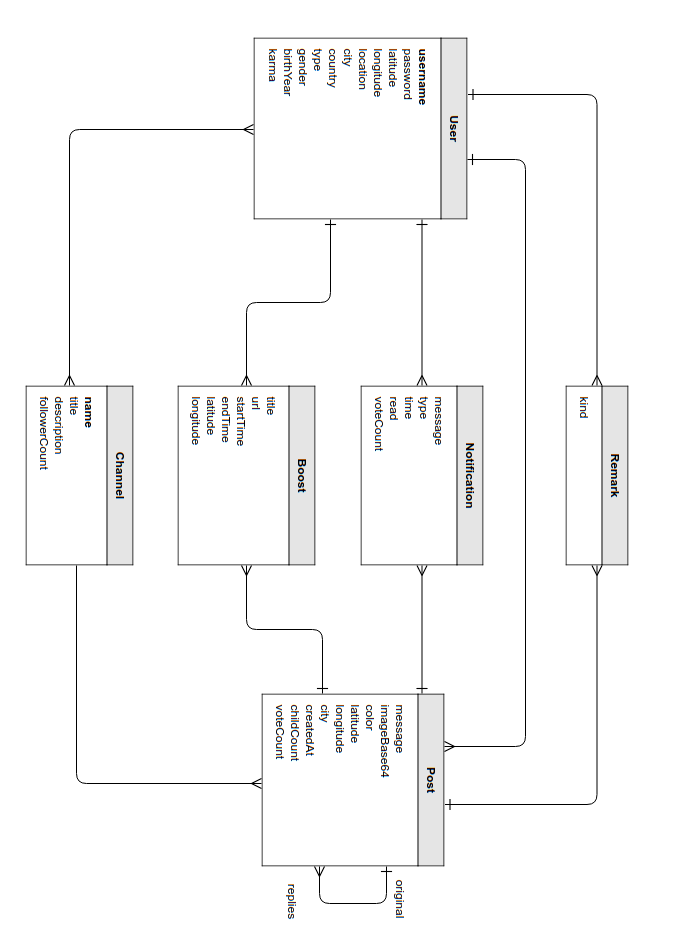
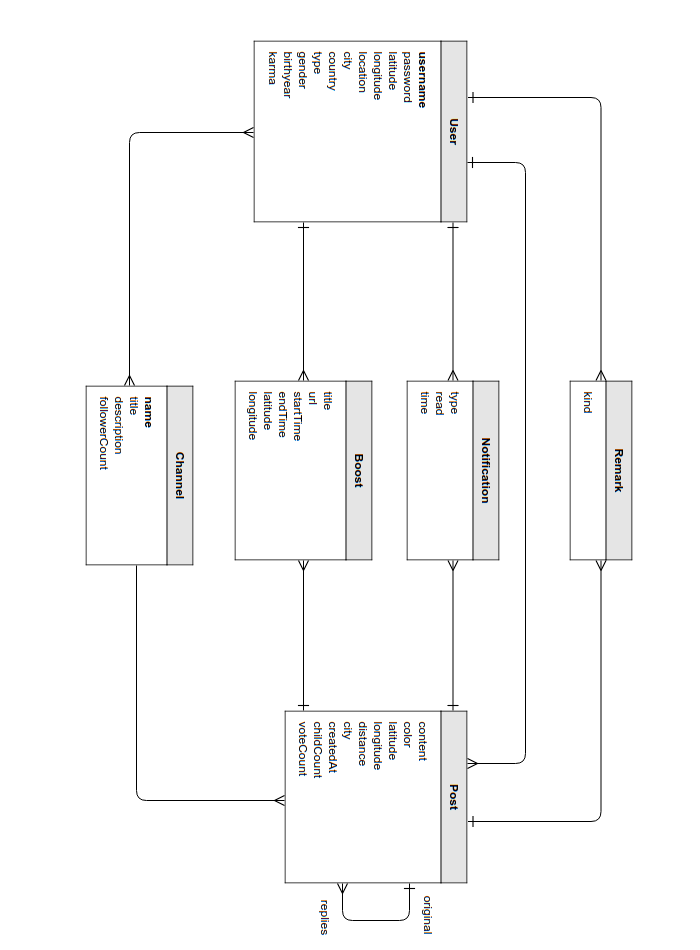
Update conceptual design

diff --git a/readme.md b/readme.md
@@ -1,3 +1,65 @@
 # Our Jodel: Conceptual Design
 ## Data Model
+
+### Entity-Relationship Diagram
+
 ![alt text](./Data_Model.png)
+
+### Data Dictionary
+
+#### Post
+
+| Attribute  | Description                                                  |
+| ---------- | ------------------------------------------------------------ |
+| content    | Probably, we are going to use MIME format. Text can have length up to 240 characters. |
+| color      | The color has no actual meaning. The color is selected randomly when the user press the &ldquo;+&rdquo; button.<br />Posts can have six colors:<br />&bull; orange (#FF9908)<br />&bull; yellow (#FFBA00)<br />&bull; red (#DD5F5F)<br />&bull; blue (#06A3CB)<br />&bull; blueish-grey (#8ABDB0)<br />&bull; green (#9EC41C) |
+| latitude   | Signed latitude of the location of posting, in degrees, with precision of 5 decimal places. |
+| longitude  | Signed longitude of the location of posting, in degrees, with precision of 5 decimal places. |
+| distance   | One of the following:<br />&bull; here (less than 1 km)<br />&bull; very-close (between 1 and 2 km)<br />&bull; close (between 2 and 10 km)<br />&bull; far (more than 10 km)<br />&bull; hometown (posted from a different location using hometown feature) |
+| city       | Name of the city. e.g.: São Paulo                            |
+| createdAt  | Date-time of the post                                        |
+| childCount | For original post, it is the number of replies.<br />For replies, it is 0. |
+| voteCount  | number of upvotes minus number of downvotes. <br />When a post has voteCount of -5 it disappears. |
+
+#### User
+
+| Attribute | Description                                                  |
+| --------- | ------------------------------------------------------------ |
+| username  | Login e-mail address.                                        |
+| password  | Login password.                                              |
+| latitude  | Signed latitude of user's location, in degrees, with precision of 5 decimal places. |
+| longitude | Signed longitude of the user's location, in degrees, with precision of 5 decimal places. |
+| location  | Name of the user's location, normally equals to the name of the city. |
+| city      | Name of the city of the the user's location, e.g.: São Paulo |
+| country   | Two letter country code, e.g. BR                             |
+| type      | User's type. Users can have one of 6 types:<br />&bull; Aprendiz<br />&bull; Funcionário<br />&bull; Colegial<br />&bull; Vestibulando<br />&bull; Universitário<br />&bull; Outros |
+| gender    | &ldquo;m&rdquo; or &ldquo;f&rdquo;                           |
+| birthyear | User's birthyear with 4 digits.                              |
+| karma     | User's score: <br /> &bull; The user earns (looses) 2 karma for upvoting (downvoting) on a post<br /> &bull; The user earns (looses) 10 karma when he receives an upvote (downvote)<br /> &bull; The user earns 1 karma for thanking another user who replies to his post<br /> &bull; The replier earns 5 karma for receiving thanks. |
+
+#### Remark
+
+| Attribute | Description                                                  |
+| --------- | ------------------------------------------------------------ |
+| kind      | One of the following:<br />&bull; upvote: an upvote cancels previous downvote from the user<br />&bullet; downvote: an downvote cancels previous upvote from the user<br />&bullet; subscribe: when the user posts an original post, reply or pin a thread he gets automatically subscribed<br />&bullet; thank: the author can thank for a reply from another user<br />&bullet; pin. |
+
+#### Notification
+
+| Attribute | Description                                                  |
+| --------- | ------------------------------------------------------------ |
+| type      | Any of the following:<br />&bullet; reply_on_reply: a reply was posted on a thread, after the user has replied on the same thread<br />&bullet; reply_on_original: a reply was posted on a thread originated from a user's post<br />&bullet; vote_on_post: vote on a post of this user<br />&bullet; reply on pin: a reply was posted on a thread pinned by this user |
+| read      | Flag to signal that the notification has been read.          |
+| time      | Date and time of the event.                                  |
+
+#### Boost
+
+| Attribute | Description                                                  |
+| --------- | ------------------------------------------------------------ |
+| title     | The title of the ad.                                         |
+| url       | The URL of the ad.                                           |
+| startTime | Start date and time of the placement.                        |
+| endTime   | End date and time of the placement.                          |
+| latitude  | Signed latitude of center of the area, in degrees, with precision of 5 decimal places. The post will be boosted in a area within 10 km of the center. |
+| longitude | Signed longitude of center of the area, in degrees, with precision of 5 decimal places. The post will be boosted in a area within 10 km of the center. |
+| canReply  | Flag to enable replies to this placement.                    |
+
